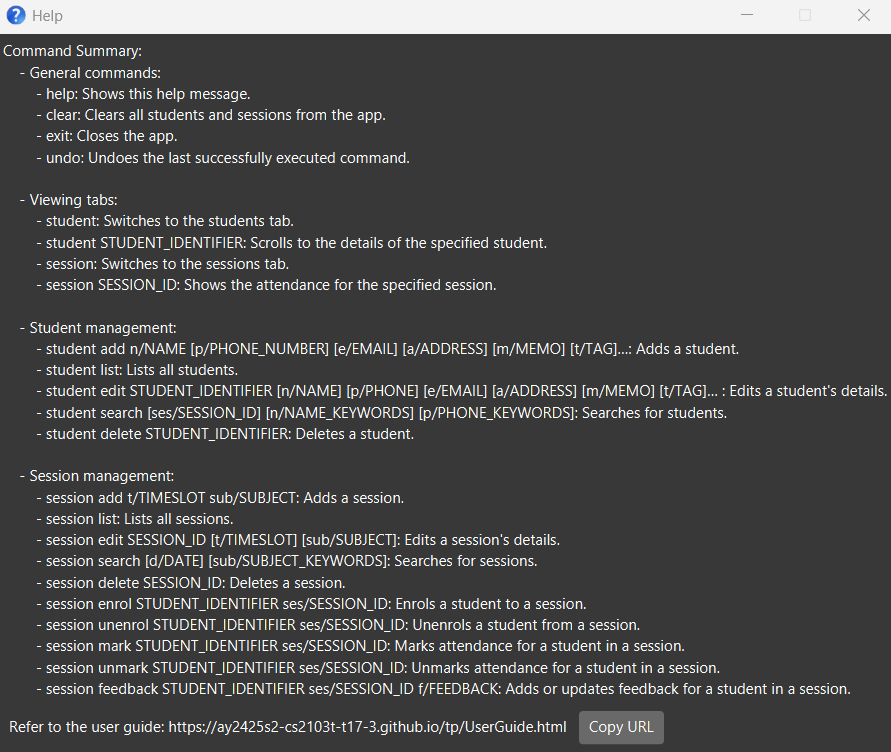
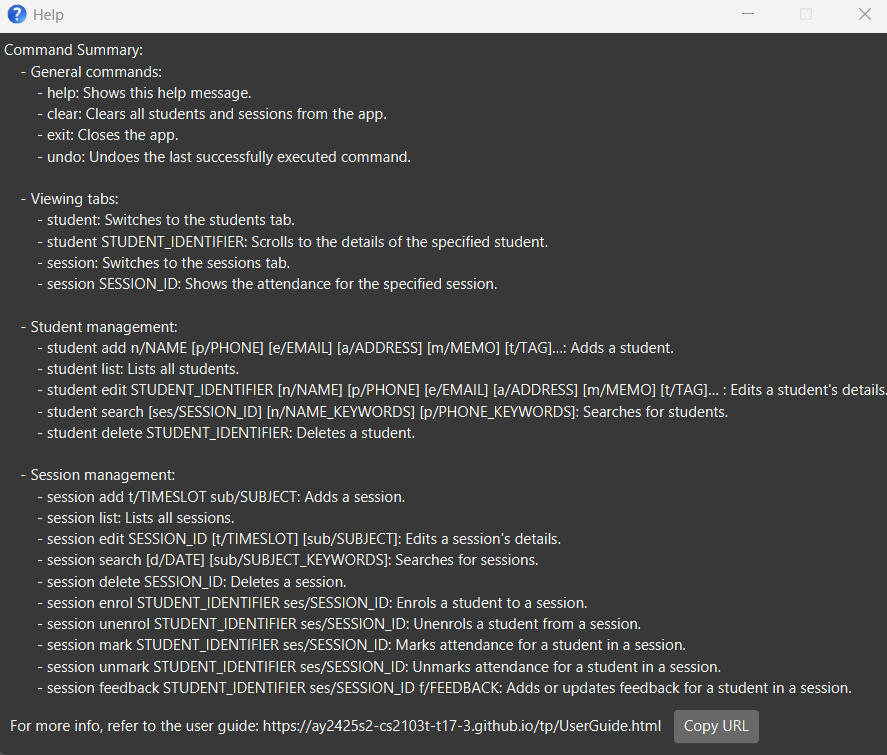
Update help message in UG

diff --git a/src/main/java/tutorly/ui/HelpWindow.java b/src/main/java/tutorly/ui/HelpWindow.java
@@ -16,7 +16,7 @@ import tutorly.commons.core.LogsCenter;
 public class HelpWindow extends UiPart<Stage> {
 
     public static final String USERGUIDE_URL = "https://ay2425s2-cs2103t-t17-3.github.io/tp/UserGuide.html";
-    public static final String HELP_MESSAGE = "Refer to the user guide: " + USERGUIDE_URL;
+    public static final String HELP_MESSAGE = "For more info, refer to the user guide: " + USERGUIDE_URL;
     public static final String COMMAND_SUMMARY = """
 Command Summary:
     - General commands:
@@ -32,7 +32,7 @@ Command Summary:
         - session SESSION_ID: Shows the attendance for the specified session.
 
     - Student management:
-        - student add n/NAME [p/PHONE_NUMBER] [e/EMAIL] [a/ADDRESS] [m/MEMO] [t/TAG]…: Adds a student.
+        - student add n/NAME [p/PHONE] [e/EMAIL] [a/ADDRESS] [m/MEMO] [t/TAG]…: Adds a student.
         - student list: Lists all students.
         - student edit STUDENT_IDENTIFIER [n/NAME] [p/PHONE] [e/EMAIL] [a/ADDRESS] [m/MEMO] [t/TAG]… : \
 Edits a student's details.
